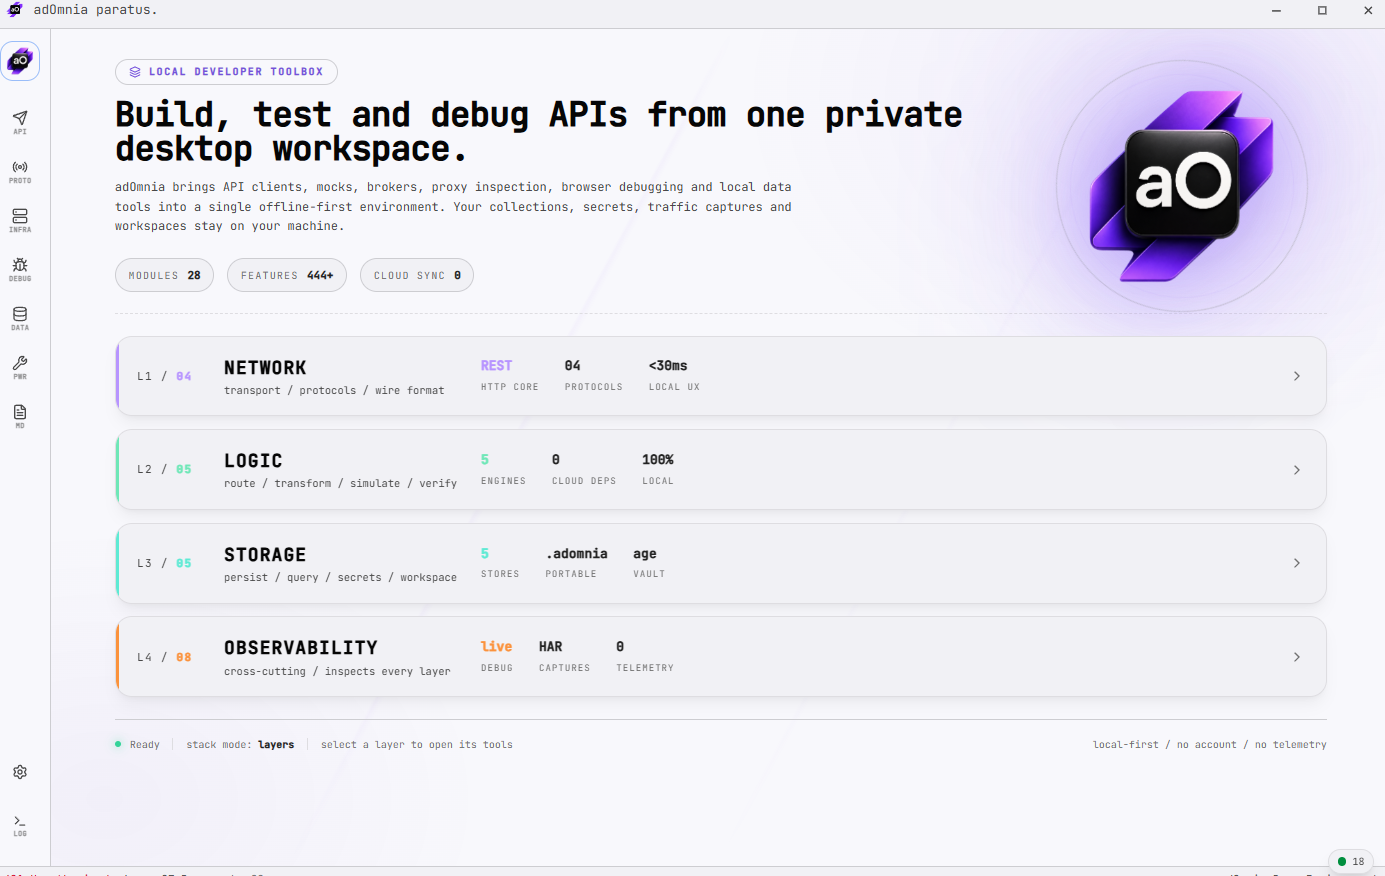
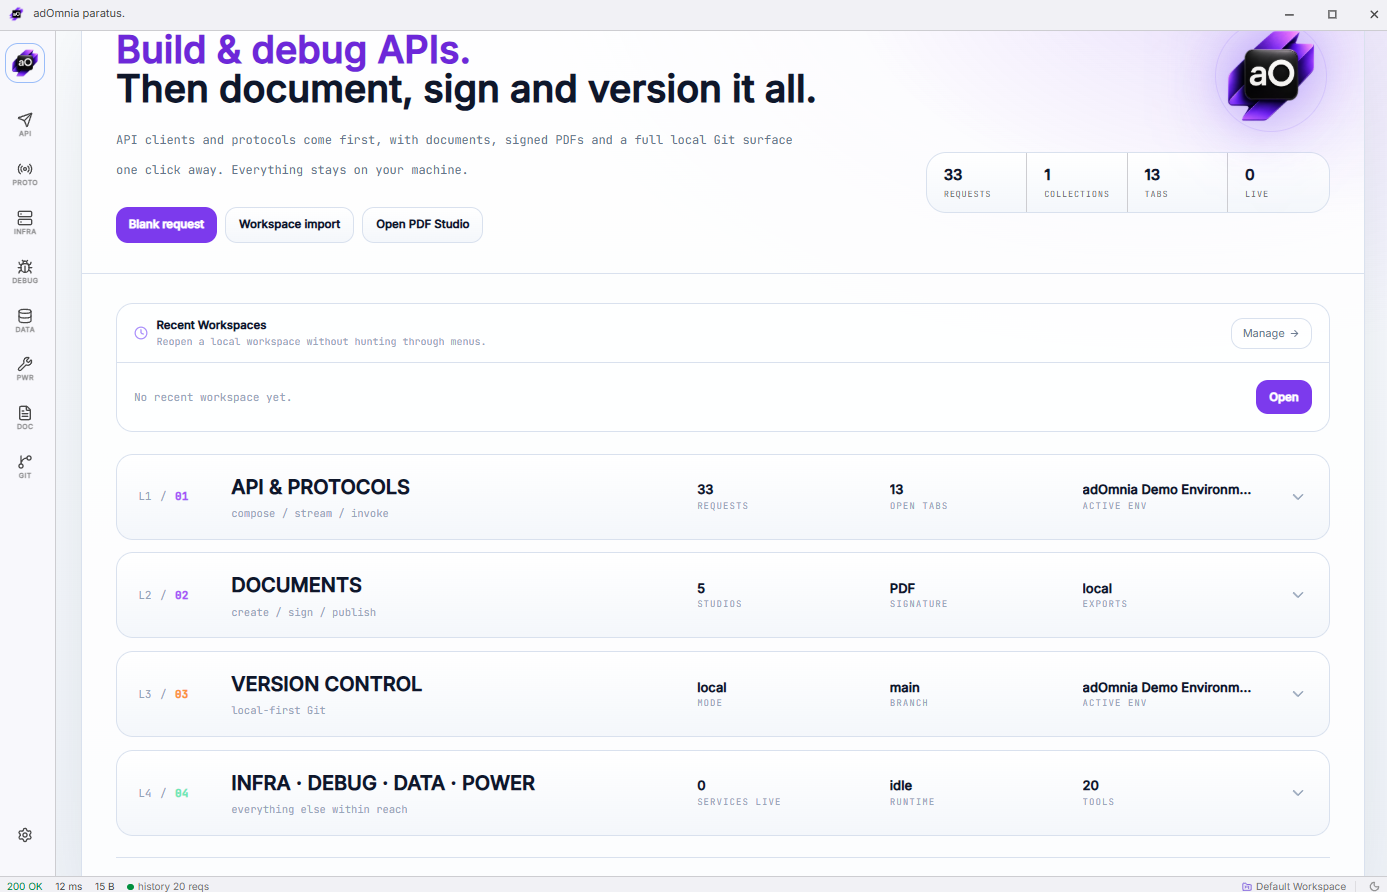
aggiornato reamde ee apidocs

diff --git a/frontend/src/components/apidocs/ApiDocsPanel.tsx b/frontend/src/components/apidocs/ApiDocsPanel.tsx
@@ -1,27 +1,36 @@
 import { useRef, useState } from 'react'
-import { BookOpen, Boxes, Link2, ClipboardPaste, AlertCircle, Loader2, X } from 'lucide-react'
+import { BookOpen, Boxes, Link2, ClipboardPaste, AlertCircle, Loader2, X, Save, Sparkles } from 'lucide-react'
 import { useCollectionsStore } from '@/stores/collections'
 import { collectionsToOAS } from '@/lib/oasExport'
 import { executeRequest } from '@/lib/executeRequest'
 import { blankRequest } from '@/lib/types'
 import { parseSpecText, buildApiDocModel, type ApiDocModel } from '@/lib/apidocs/parseSpec'
+import { generateApiDocsWithAI, improveApiDocsWithAI } from '@/lib/apidocs/aiDocs'
 import { ApiDocsViewer } from './ApiDocsViewer'
+import { useSettingsStore } from '@/stores/settings'
 
 type SourceTab = 'collection' | 'url' | 'paste'
 
 export function ApiDocsPanel() {
   const collections = useCollectionsStore((s) => s.collections)
+  const updateCollection = useCollectionsStore((s) => s.updateCollection)
+  const aiEnabled = useSettingsStore((s) => s.settings.ai.enabled)
   const [model, setModel] = useState<ApiDocModel | null>(null)
+  const [rawSpec, setRawSpec] = useState('')
   const [error, setError] = useState<string | null>(null)
   const [loading, setLoading] = useState(false)
+  const [aiLoading, setAiLoading] = useState(false)
+  const [saveStatus, setSaveStatus] = useState('')
   const [tab, setTab] = useState<SourceTab>('collection')
   const [selectedCollection, setSelectedCollection] = useState('__all__')
+  const [saveCollectionId, setSaveCollectionId] = useState('')
   const [url, setUrl] = useState('')
   const [pasteText, setPasteText] = useState('')
   const fileRef = useRef<HTMLInputElement>(null)
 
   const load = (raw: string) => {
     setError(null)
+    setSaveStatus('')
     try {
       const spec = parseSpecText(raw)
       const built = buildApiDocModel(spec)
@@ -29,6 +38,7 @@ export function ApiDocsPanel() {
         setError('Parsed the document but found no operations (paths). Is this an OpenAPI/Swagger spec?')
         return
       }
+      setRawSpec(raw)
       setModel(built)
     } catch (e: unknown) {
       setError(e instanceof Error ? e.message : 'Could not parse the document')
@@ -45,9 +55,75 @@ export function ApiDocsPanel() {
     }
     try {
       load(collectionsToOAS(source, 'json'))
+      if (source.length === 1) setSaveCollectionId(source[0].id)
     } catch (e: unknown) {
       setError(e instanceof Error ? e.message : 'Could not generate spec from collection')
     }
+  }
+
+  const generateFromCollectionsWithAI = async () => {
+    const source = selectedCollection === '__all__'
+      ? collections
+      : collections.filter((c) => c.id === selectedCollection)
+    if (source.length === 0) {
+      setError('No collection selected.')
+      return
+    }
+    if (!aiEnabled) {
+      setError('AI features are disabled. Enable them in Settings > AI Engine.')
+      return
+    }
+    setAiLoading(true)
+    setError(null)
+    setSaveStatus('')
+    try {
+      const generated = await generateApiDocsWithAI(source)
+      load(generated)
+      if (source.length === 1) setSaveCollectionId(source[0].id)
+      setSaveStatus('AI generated an OpenAPI document. Review it, then save it to a collection.')
+    } catch (e: unknown) {
+      setError(e instanceof Error ? e.message : 'Could not generate docs with AI')
+    } finally {
+      setAiLoading(false)
+    }
+  }
+
+  const improveLoadedDocsWithAI = async () => {
+    if (!rawSpec.trim()) return
+    if (!aiEnabled) {
+      setError('AI features are disabled. Enable them in Settings > AI Engine.')
+      return
+    }
+    setAiLoading(true)
+    setError(null)
+    setSaveStatus('')
+    try {
+      const improved = await improveApiDocsWithAI(rawSpec)
+      load(improved)
+      setSaveStatus('AI improved this API document. Review it, then save it to a collection.')
+    } catch (e: unknown) {
+      setError(e instanceof Error ? e.message : 'Could not improve docs with AI')
+    } finally {
+      setAiLoading(false)
+    }
+  }
+
+  const saveLoadedDocs = () => {
+    if (!rawSpec.trim()) {
+      setError('No API document is loaded.')
+      return
+    }
+    if (!saveCollectionId) {
+      setError('Choose a collection before saving the API documentation.')
+      return
+    }
+    const target = collections.find((collection) => collection.id === saveCollectionId)
+    if (!target) {
+      setError('Selected collection no longer exists.')
+      return
+    }
+    updateCollection(target.id, { _openapiSpec: rawSpec })
+    setSaveStatus(`Saved API documentation to ${target.name}.`)
   }
 
   const loadFromUrl = async () => {
@@ -88,13 +164,51 @@ export function ApiDocsPanel() {
         <div className="flex items-center gap-2 border-b border-border-1 bg-surface-1 px-3 py-1.5">
           <BookOpen size={14} className="text-accent" />
           <span className="text-[12px] font-medium text-text-2">API Docs</span>
+          <select
+            value={saveCollectionId}
+            onChange={(e) => {
+              setSaveCollectionId(e.target.value)
+              setSaveStatus('')
+            }}
+            className="ml-auto h-7 max-w-[220px] rounded-md border border-border-2 bg-surface-2 px-2 text-[11px] text-text-1 outline-none focus:border-accent"
+            title="Collection where this OpenAPI document will be saved"
+          >
+            <option value="">Save target...</option>
+            {collections.map((collection) => (
+              <option key={collection.id} value={collection.id}>{collection.name}</option>
+            ))}
+          </select>
           <button
-            onClick={() => setModel(null)}
-            className="ml-auto flex items-center gap-1 rounded-md border border-border-2 px-2 py-1 text-[11px] text-text-3 hover:text-text-1"
+            onClick={() => void improveLoadedDocsWithAI()}
+            disabled={aiLoading}
+            className="flex items-center gap-1 rounded-md border border-border-2 px-2 py-1 text-[11px] text-text-3 hover:text-text-1 disabled:opacity-50"
+            title="Use the configured AI engine to improve summaries and descriptions"
+          >
+            {aiLoading ? <Loader2 size={12} className="animate-spin" /> : <Sparkles size={12} />} Improve with AI
+          </button>
+          <button
+            onClick={saveLoadedDocs}
+            className="flex items-center gap-1 rounded-md bg-accent px-2 py-1 text-[11px] font-bold text-white hover:bg-accent-hover"
+            title="Save this OpenAPI document into the selected collection"
+          >
+            <Save size={12} /> Save docs
+          </button>
+          <button
+            onClick={() => {
+              setModel(null)
+              setRawSpec('')
+              setSaveStatus('')
+            }}
+            className="flex items-center gap-1 rounded-md border border-border-2 px-2 py-1 text-[11px] text-text-3 hover:text-text-1"
           >
             <X size={12} /> Load another
           </button>
         </div>
+        {(saveStatus || error) && (
+          <div className={`border-b px-3 py-2 text-[11px] ${error ? 'border-error/20 bg-error/10 text-error' : 'border-success/20 bg-success/10 text-success'}`}>
+            {error || saveStatus}
+          </div>
+        )}
         <ApiDocsViewer model={model} />
       </div>
     )
@@ -133,6 +247,16 @@ export function ApiDocsPanel() {
             <button onClick={generateFromCollections} className="h-9 w-full rounded-md bg-accent text-[12px] font-bold text-white hover:bg-accent-hover">
               Generate docs
             </button>
+            <button
+              onClick={() => void generateFromCollectionsWithAI()}
+              disabled={aiLoading}
+              className="flex h-9 w-full items-center justify-center gap-2 rounded-md border border-accent/40 bg-accent/10 text-[12px] font-bold text-accent hover:bg-accent/15 disabled:opacity-50"
+            >
+              {aiLoading ? <Loader2 size={13} className="animate-spin" /> : <Sparkles size={13} />} Generate docs with AI
+            </button>
+            <p className="text-[11px] text-text-4">
+              AI uses the provider configured in Settings &gt; AI Engine and saves only after you review the result.
+            </p>
           </div>
         )}
 

diff --git a/frontend/src/lib/apidocs/aiDocs.ts b/frontend/src/lib/apidocs/aiDocs.ts
@@ -1,0 +1,58 @@
+import { stringify } from 'yaml'
+import { collectionsToOAS } from '@/lib/oasExport'
+import { ensureAIConfigured } from '@/lib/aiEngine'
+import type { Collection } from '@/lib/types'
+import * as AIEngine from '@/wailsjs/go/main/AIEngine'
+import { buildApiDocModel, parseSpecText } from './parseSpec'
+
+function stripMarkdownFence(value: string): string {
+  const trimmed = value.trim()
+  const fenced = trimmed.match(/^```(?:json|yaml|yml)?\s*([\s\S]*?)\s*```$/i)
+  return (fenced?.[1] ?? trimmed).trim()
+}
+
+function normalizeSpecText(raw: string): string {
+  const spec = parseSpecText(stripMarkdownFence(raw))
+  const model = buildApiDocModel(spec)
+  if (model.operationCount === 0) {
+    throw new Error('AI returned a spec without operations.')
+  }
+  return stringify(spec, { lineWidth: 0 })
+}
+
+export async function generateApiDocsWithAI(collections: Collection[]): Promise<string> {
+  if (collections.length === 0) throw new Error('Select at least one collection before generating docs.')
+  const baseSpec = collectionsToOAS(collections, 'yaml')
+  await ensureAIConfigured()
+  const raw = await AIEngine.Complete(
+    'You are an API documentation assistant for adOmnia. Return only a complete valid OpenAPI 3.0 YAML document. Do not wrap it in Markdown.',
+    [
+      'Create or improve API documentation for this collection export.',
+      'Preserve every existing path, method, parameter, request body, response status, and schema.',
+      'Add professional summaries and descriptions where they are missing.',
+      'Keep the output local-first and vendor-neutral. Do not invent authentication secrets or external services.',
+      '',
+      baseSpec,
+    ].join('\n'),
+    4096,
+  )
+  return normalizeSpecText(raw)
+}
+
+export async function improveApiDocsWithAI(specText: string): Promise<string> {
+  if (!specText.trim()) throw new Error('No API document is loaded.')
+  await ensureAIConfigured()
+  const raw = await AIEngine.Complete(
+    'You improve OpenAPI documentation. Return only a complete valid OpenAPI 3.0 YAML document. Do not wrap it in Markdown.',
+    [
+      'Improve this API document for a developer-facing reference.',
+      'Preserve every path, method, parameter, request body, response status, and schema.',
+      'Add or improve operation summaries, descriptions, tag descriptions, and response descriptions.',
+      'Do not remove operations. Do not add fake secrets. Do not add telemetry or cloud assumptions.',
+      '',
+      specText,
+    ].join('\n'),
+    4096,
+  )
+  return normalizeSpecText(raw)
+}

diff --git a/docs/release-notes.md b/docs/release-notes.md
@@ -1,0 +1,82 @@
+# Release Notes - Desktop UI Refresh
+
+Data: 2026-06-15
+
+Questa nota riassume gli ultimi miglioramenti all'esperienza desktop di adOmnia, con focus su hub principale, navigazione laterale e LaTeX Studio.
+
+## Highlights
+
+- Hub principale tornato compatto: le aree prodotto non sono piu' tutte aperte al primo accesso.
+- Nuove voci mantenute nell'hub: API, documenti, Git, infrastruttura, debug, dati e power tools restano raggiungibili.
+- Espansione progressiva: cliccando una sezione dell'hub si apre il contenuto inline, senza entrare subito in una pagina.
+- Menu laterale piu' diretto: clic su `GIT` apre subito Git Sync, senza sottomenu inutile.
+- Primo preset LaTeX aggiornato: il template resume ora replica un formato classico da Software Engineer Resume.
+- API Docs ora puo' salvare la documentazione OpenAPI dentro una collection e usare l'AI configurata per generare o migliorare descrizioni.
+
+## Hub Principale
+
+L'hub desktop e' stato ripulito per tornare al comportamento precedente: una vista iniziale compatta, piu' simile a una dashboard di orientamento che a una pagina gia' completamente esplosa.
+
+Ora l'utente vede quattro sezioni principali chiuse:
+
+- `API & Protocols`
+- `Documents`
+- `Version Control`
+- `Infra - Debug - Data - Power`
+
+Ogni sezione mostra una riga sintetica con contesto e statistiche. Il click sulla riga espande la sezione dentro l'hub; solo il click su uno strumento specifico apre il pannello dedicato.
+
+Questo riduce rumore visivo, evita navigazioni accidentali e rende l'ingresso nell'app piu' ordinato.
+
+## Navigazione Laterale
+
+La voce `GIT` nel menu sinistro ora apre direttamente la pagina Git Sync.
+
+Prima il click apriva un piccolo pannello con una sola voce `Git Sync`, creando un passaggio superfluo. Ora il comportamento e' piu' coerente: se una voce ha una sola destinazione reale, porta direttamente li'.
+
+## LaTeX Studio
+
+Il primo esempio di resume nel LaTeX Studio e' stato sostituito con un template classico in stile Software Engineer Resume:
+
+- intestazione con nome a sinistra e contatti a destra;
+- sezioni `Education`, `Experience`, `Projects`, `Programming Skills`;
+- tipografia piu' sobria e compatta;
+- linee orizzontali sottili tra le sezioni;
+- contenuto di esempio allineato al formato mostrato nel riferimento.
+
+Anche la preview interna e' stata aggiornata per rappresentare meglio il layout classico del template, evitando lo stile moderno precedente con accenti colorati e chip.
+
+## API Docs e AI
+
+Il pannello API Docs non e' piu' soltanto un viewer temporaneo. Dopo aver generato, incollato o caricato un documento OpenAPI, l'utente puo' scegliere una collection e salvare la documentazione dentro quella collection.
+
+Il salvataggio usa lo stesso campo `_openapiSpec` gia' usato dall'OpenAPI Contract Editor, quindi la documentazione resta disponibile nei flussi successivi e viene persistita nello storage locale del workspace.
+
+E' stato aggiunto anche un flusso AI reale:
+
+- `Generate docs with AI` crea o arricchisce un documento OpenAPI partendo dalle collection selezionate.
+- `Improve with AI` migliora summary, description, tag e response descriptions del documento gia' aperto.
+- L'output AI viene validato come OpenAPI prima di essere mostrato.
+- Il risultato non viene salvato automaticamente: l'utente lo revisiona e poi preme `Save docs`.
+
+L'AI usa il provider configurato in `Settings > AI Engine` e mantiene il principio local-first: nessuna chiamata AI parte se l'utente non abilita/configura esplicitamente il motore.
+
+## Impatto Utente
+
+- Primo avvio piu' pulito e meno dispersivo.
+- Meno click inutili nella navigazione.
+- Maggiore coerenza tra hub, rail laterale e pannelli reali.
+- LaTeX Studio piu' utile per chi vuole partire da un resume tecnico tradizionale.
+- Documentazione API persistente e migliorabile con AI direttamente dentro adOmnia.
+
+## Verifica
+
+Controllo frontend eseguito:
+
+```bash
+cd frontend
+npm run build
+npm run test -- parseSpec
+```
+
+Risultato: build completata correttamente.
